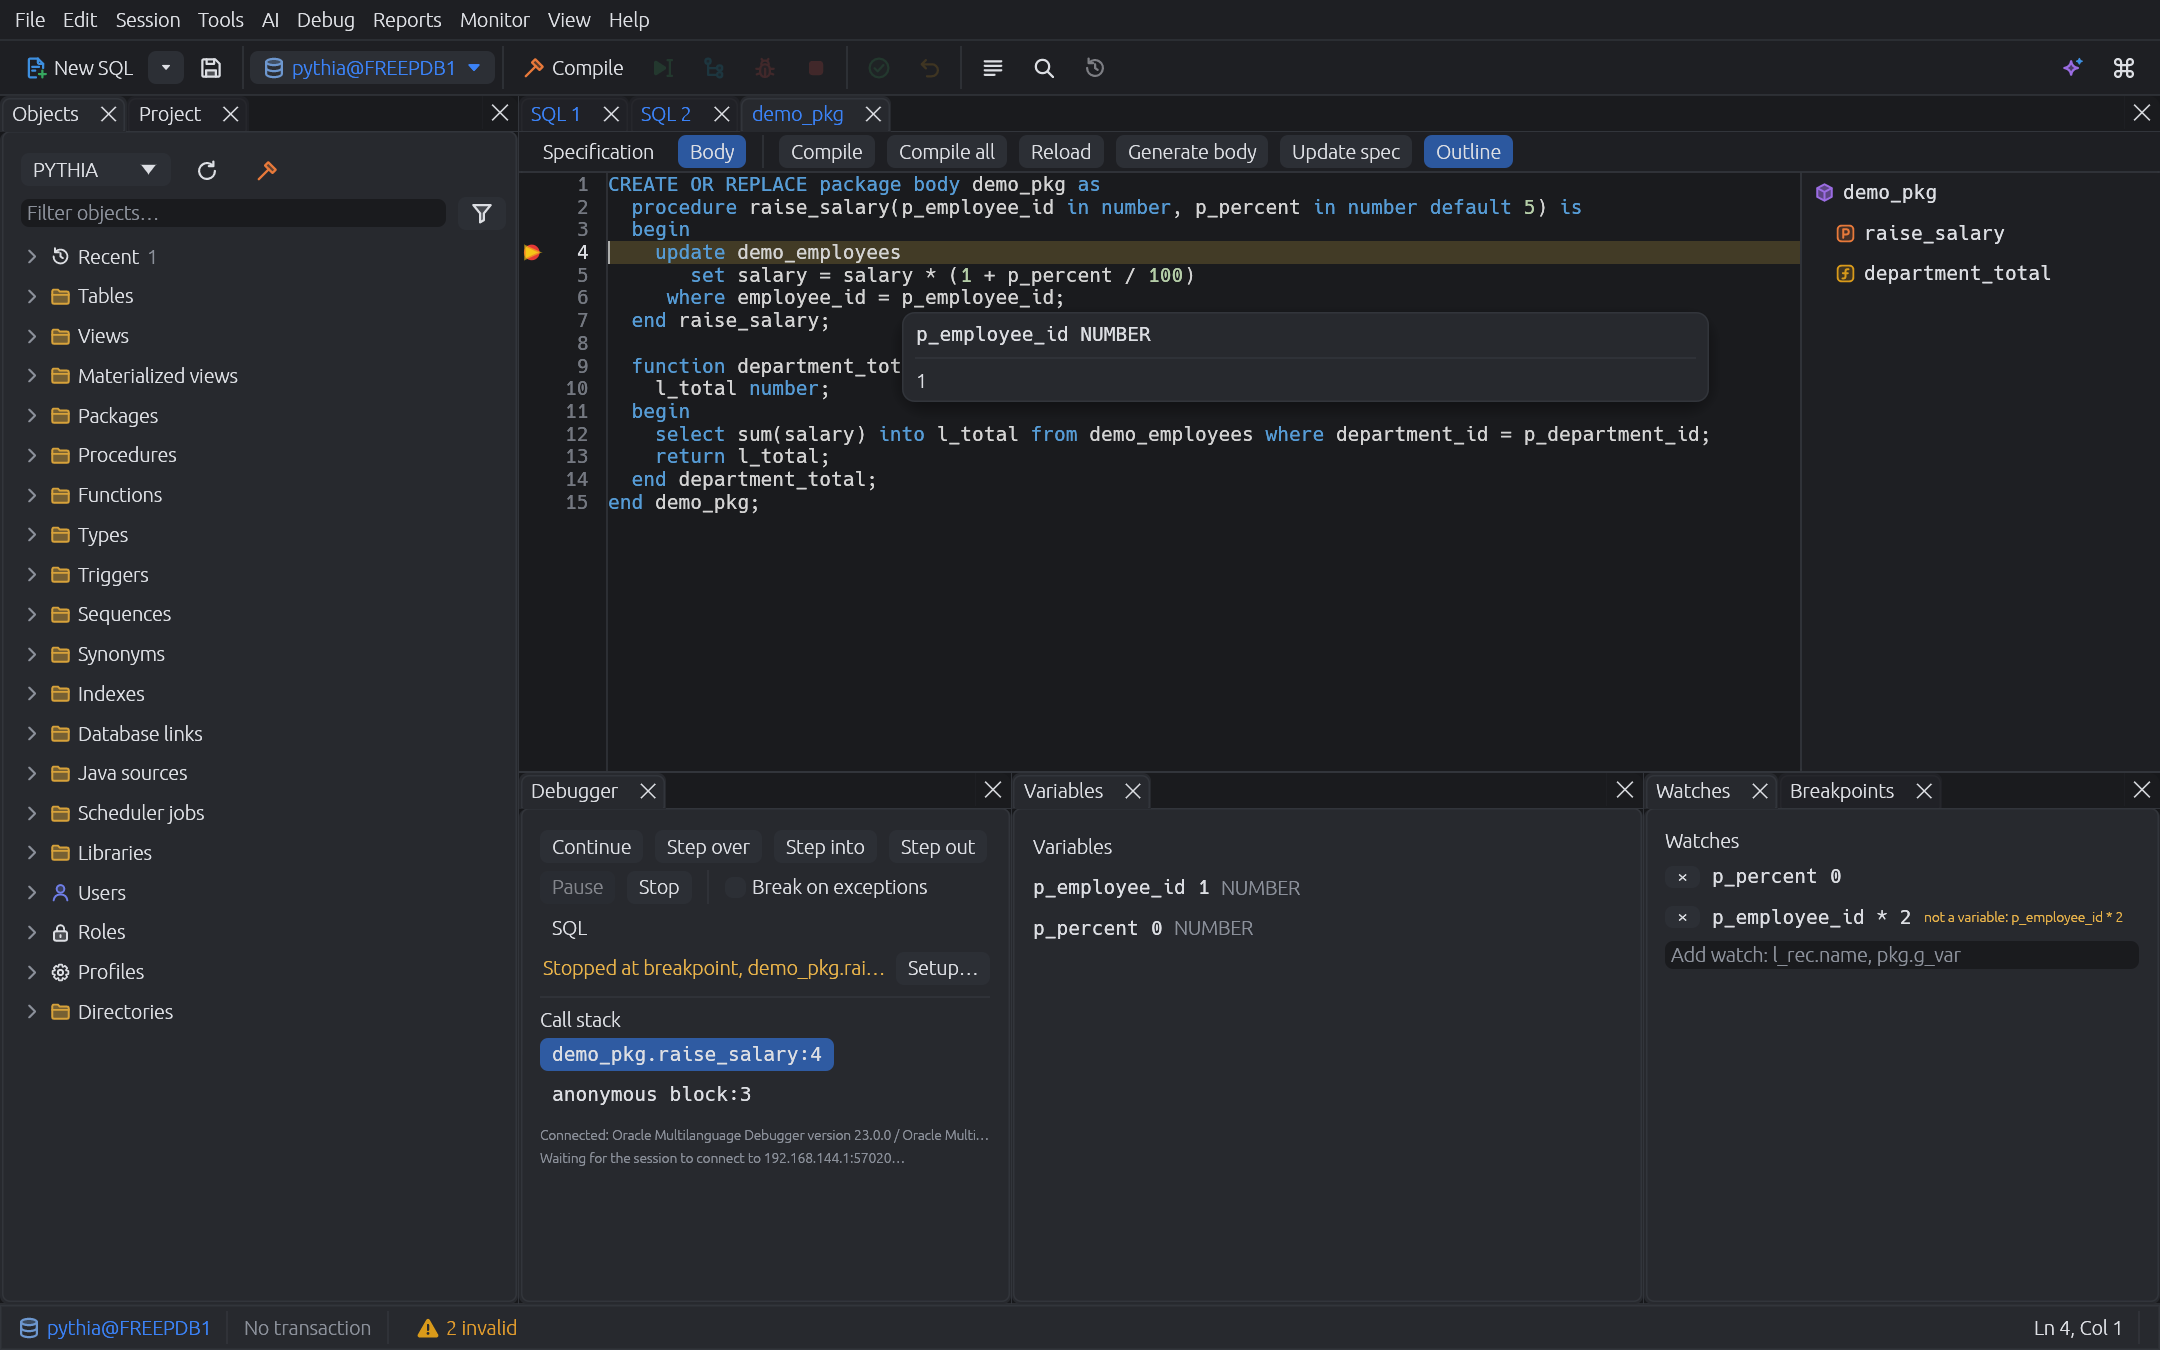
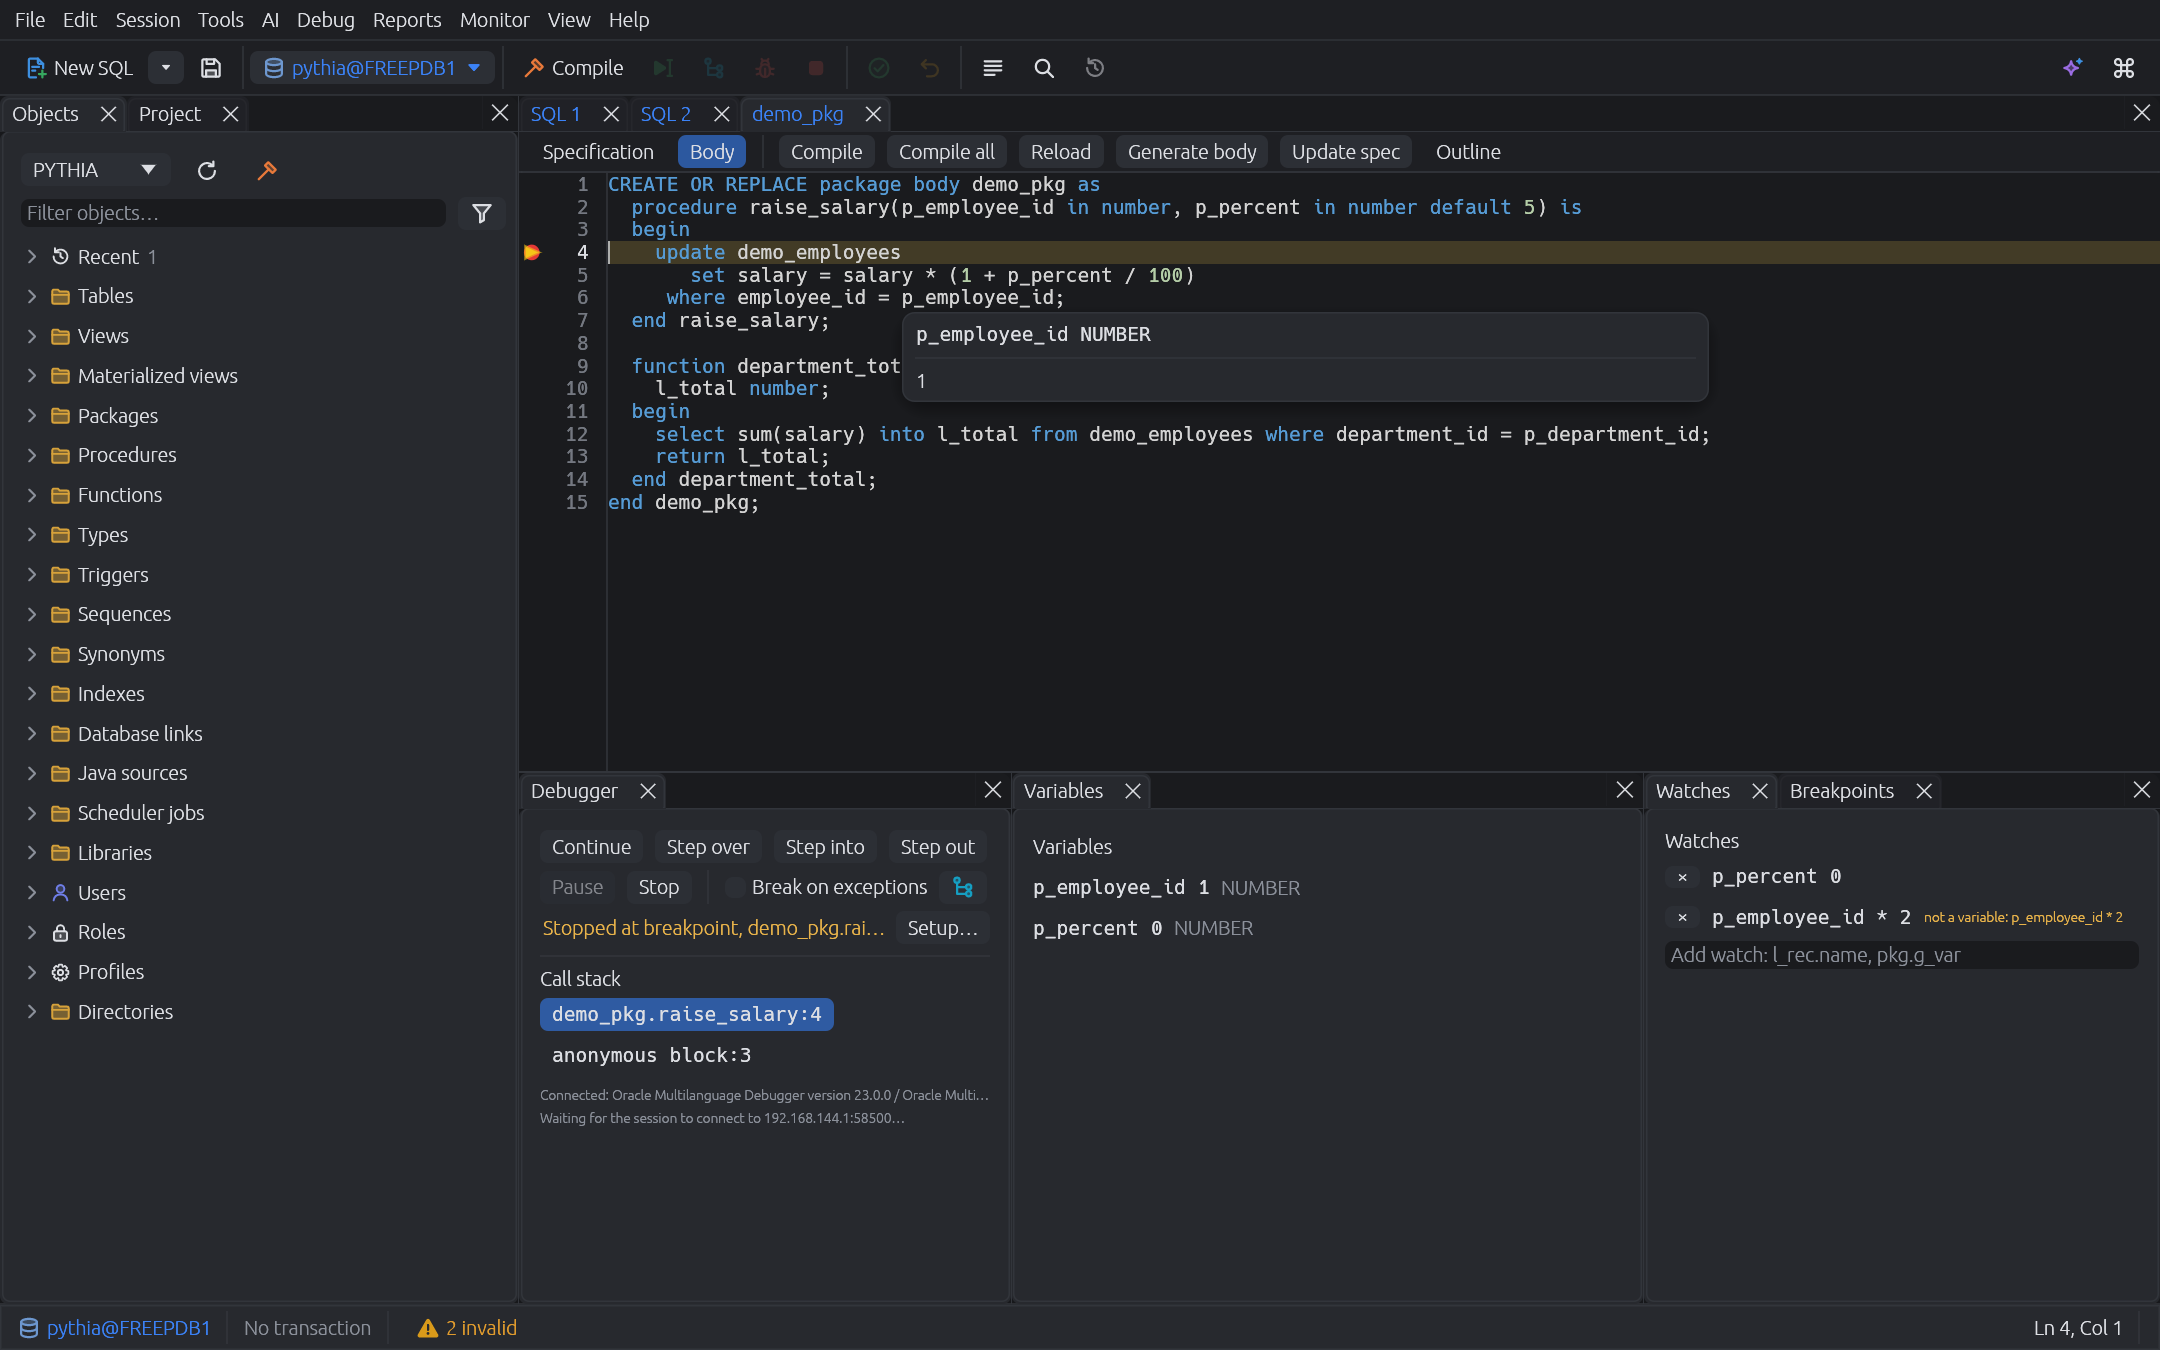
Website: debugger screenshot and text for 0.10.0
The screenshot shows the plan button in the debugger's toolbar (#169)
and the program window the debugger opened without its outline (#170),
rendered again from debugger_session. The card says the plan button
blinks on a misestimate and a click shows the plan.

Changed region(s): [[0.2481, 0.6844, 0.4343, 0.8711], [0.8375, 0.1244, 1.0, 0.2178], [0.6514, 0.0933, 0.7134, 0.1244]]

diff --git a/site/index.html b/site/index.html
@@ -122,7 +122,7 @@
       </article>
       <article class="card">
         <h3>A debugger that sets itself up</h3>
-        <p>Conditional breakpoints, step into, watches, Run to Cursor, and values you change while stopped. Hover a selection like <code>l_order.lines(i)</code> to see that element. At every stop it checks the plans of the SQL the code just ran and marks a misestimate on its line; the real plan, estimated and actual rows side by side, opens beside the code. When the database can't connect back, <em>Debugger Setup</em> finds out why — grants, ACL, host name, firewall — and fixes it. A profiler too.</p>
+        <p>Conditional breakpoints, step into, watches, Run to Cursor, and values you change while stopped. Hover a selection like <code>l_order.lines(i)</code> to see that element. At every stop it checks the plans of the SQL the code just ran, marks a misestimate on its line and lets the plan button blink; a click shows the real plan beside the code, estimated and actual rows side by side. When the database can't connect back, <em>Debugger Setup</em> finds out why — grants, ACL, host name, firewall — and fixes it. A profiler too.</p>
       </article>
       <article class="card">
         <h3>See what the database is doing</h3>
